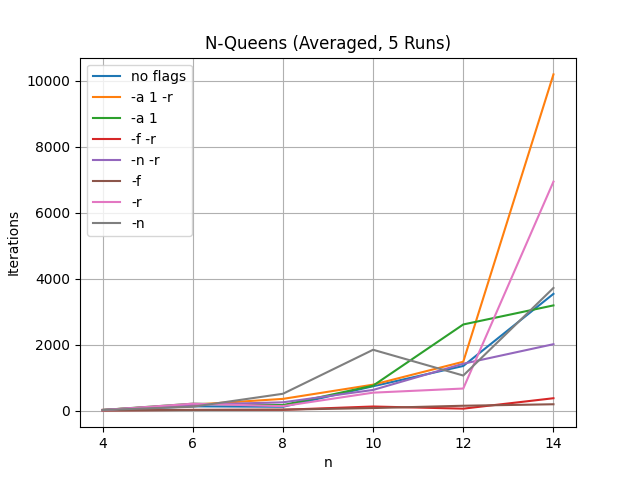
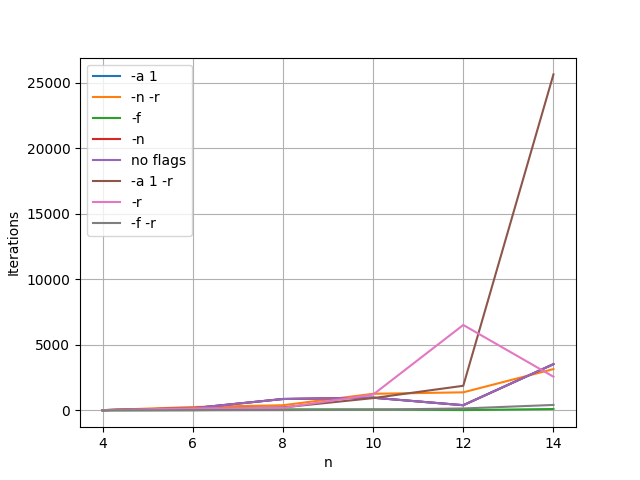
Redid queens plots

diff --git a/Problems/queens/scripts/plot_iterations.py b/Problems/queens/scripts/plot_iterations.py
@@ -13,8 +13,9 @@ options = set(opt for values in data.values() for opt in values)  # Gather all u
 plot_data = {opt: [] for opt in options}
 for n in n_values:
     for opt in options:
-        # Append the result to the appropriate option, converting to integer for plotting
-        plot_data[opt].append(int(data[n].get(opt, 0)))  # Using 0 as default if option is missing
+        # Extract the number before '±' and convert to integer for plotting
+        result = data[n].get(opt, "0 ± 0").split("±")[0].strip()  # Using "0 ± 0" as default
+        plot_data[opt].append(int(result))  # Append the integer result
 
 # Generate the plot
 n_values_int = list(map(int, n_values))  # Convert n values from string to integers
@@ -22,7 +23,7 @@ for opt, results in plot_data.items():
     label = opt if opt else "no flags"  # Adjusting label for "no flags" option
     plt.plot(n_values_int, results, label=label.replace("_", " ").strip())
 
-plt.title("N-Queens (Averaged, 5 Runs)")
+# plt.title("N-Queens (Averaged, 5 Runs)")
 plt.xlabel("n")
 plt.ylabel("Iterations")
 plt.xticks(n_values_int)  # Set x-axis ticks to the correct problem sizes
